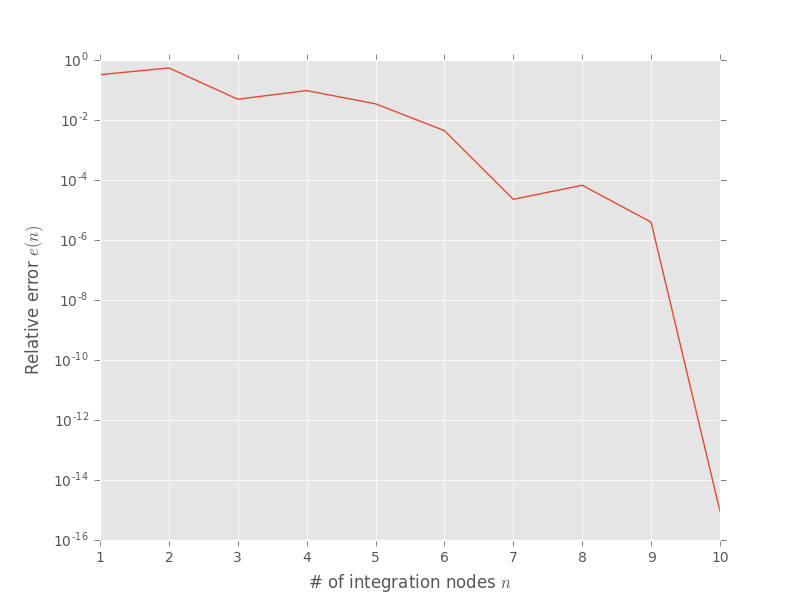
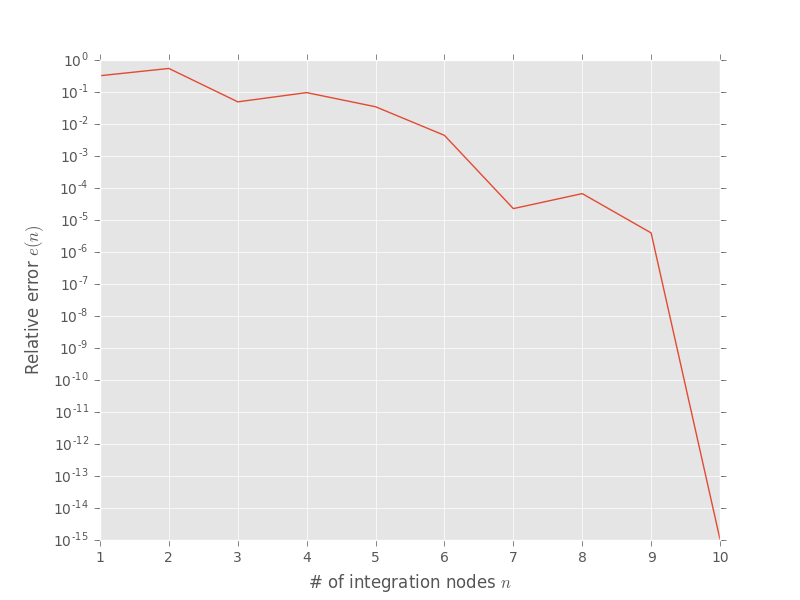
fiks

diff --git a/Gauss_Legendre.py b/Gauss_Legendre.py
@@ -3,13 +3,10 @@ import xml.etree.ElementTree as et
 import sys
 import numpy as np
 from math import *
-import matplotlib.pyplot as plt
-plt.style.use("ggplot")
 ################################################################################
 ERRORTOL = 1e-15
 EPS = 1e-25
 ITERATIONCAP = 2000
-MAXN = 100
 
 def XML_Extraction(xmlfile):
     tree = et.parse(xmlfile)
@@ -18,13 +15,8 @@ def XML_Extraction(xmlfile):
     analytical = float(eval(root[1].text))
     return [f, analytical]
 
-
-comp = [False] * MAXN
-mem = [ [[], []] ] * MAXN
 def Gauss_Legendre_Data(n):
     
-    if n < MAXN and comp[n]:
-        return mem[n]
     # find the n roots of L_{n}(x). Since the roots are symmetric about x = 0,
     # we only need to calculate the floor(n / 2) roots in (0, 1]. This
     # also reduces the required calculations for the weights
@@ -41,10 +33,6 @@ def Gauss_Legendre_Data(n):
     if n % 2 != 0:
         xi.append(0)
         weights.append( 2 / (Legendre_1(n, 0, Legendre_0(n, 0))[-1]**2) )
-    
-    if n < MAXN:
-        comp[n] = True
-        mem[n] = [xi, weights]
     
     return [xi, weights]
 

diff --git a/Quadrature_Analysis.py b/Quadrature_Analysis.py
@@ -5,6 +5,7 @@ import numpy as np
 import matplotlib as mpl
 import matplotlib.pyplot as plt
 import Gauss_Legendre as Leg
+plt.style.use("ggplot")
 ################################################################################
 
 
